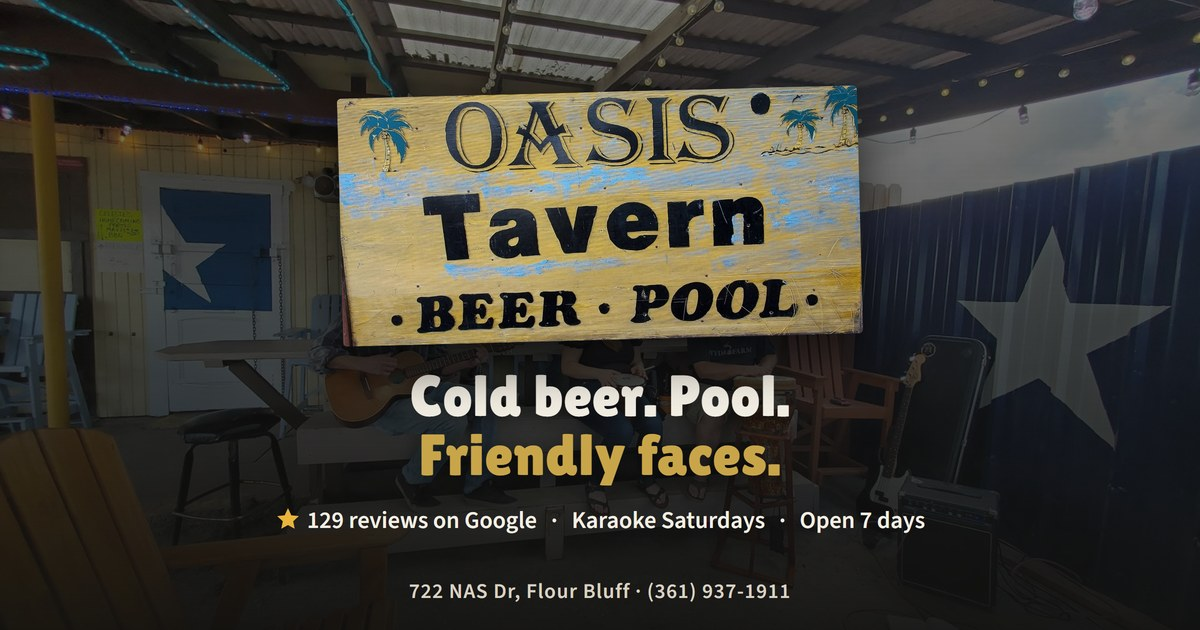
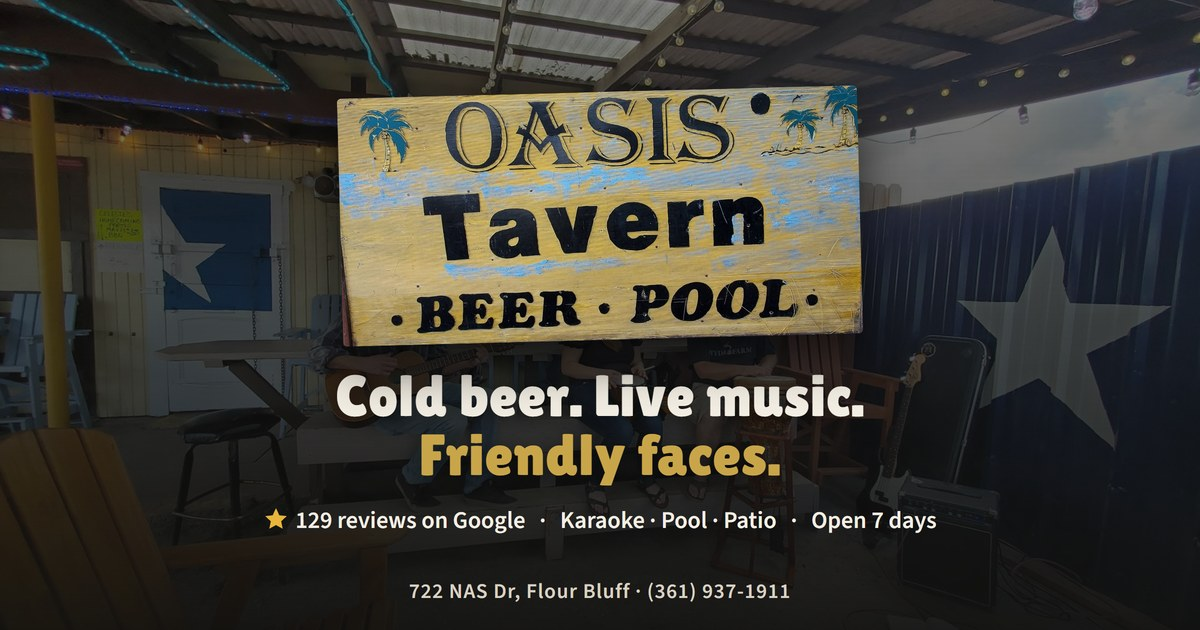
Headline + card: live music, not just karaoke

Changed region(s): [[0.2775, 0.573, 0.74, 0.6635], [0.2158, 0.8143, 0.8017, 0.8444]]

diff --git a/index.html b/index.html
@@ -3,23 +3,23 @@
 <head>
 <meta charset="utf-8">
 <meta name="viewport" content="width=device-width, initial-scale=1, viewport-fit=cover">
-<title>Oasis Tavern | Beer, Pool &amp; Karaoke in Flour Bluff — Corpus Christi, TX</title>
-<meta name="description" content="Oasis Tavern on NAS Drive in Flour Bluff. Ice cold beer, pool tables, Saturday karaoke, Wednesday open mic and a big covered patio. Cash bar, BYOB set-ups. Open 7 days. (361) 937-1911.">
+<title>Oasis Tavern | Beer, Live Music, Pool &amp; Karaoke in Flour Bluff — Corpus Christi, TX</title>
+<meta name="description" content="Oasis Tavern on NAS Drive in Flour Bluff. Ice cold beer, live music and open mic on the patio, Saturday karaoke, pool tables. Cash bar, BYOB set-ups. Open 7 days. (361) 937-1911.">
 <meta name="robots" content="noindex,nofollow">
 <link rel="canonical" href="https://jzonkel1.github.io/oasis-tavern/">
 <meta property="og:title" content="Oasis Tavern — Flour Bluff, Corpus Christi">
-<meta property="og:description" content="Ice cold beer, pool, karaoke Saturdays, open mic Wednesdays and a big patio on NAS Drive. Cash bar, BYOB set-ups. Open 7 days.">
+<meta property="og:description" content="Ice cold beer, live bands and open mic on the patio, karaoke Saturdays, pool tables. Cash bar, BYOB set-ups. Open 7 days on NAS Drive.">
 <meta property="og:site_name" content="Oasis Tavern">
 <meta property="og:type" content="website">
 <meta property="og:url" content="https://jzonkel1.github.io/oasis-tavern/">
-<meta property="og:image" content="https://jzonkel1.github.io/oasis-tavern/assets/img/og.jpg?v=4">
-<meta property="og:image:secure_url" content="https://jzonkel1.github.io/oasis-tavern/assets/img/og.jpg?v=4">
+<meta property="og:image" content="https://jzonkel1.github.io/oasis-tavern/assets/img/og.jpg?v=5">
+<meta property="og:image:secure_url" content="https://jzonkel1.github.io/oasis-tavern/assets/img/og.jpg?v=5">
 <meta property="og:image:alt" content="Oasis Tavern, 722 NAS Dr, Corpus Christi">
 <meta property="og:image:type" content="image/jpeg">
 <meta property="og:image:width" content="1200">
 <meta property="og:image:height" content="630">
 <meta name="twitter:card" content="summary_large_image">
-<meta name="twitter:image" content="https://jzonkel1.github.io/oasis-tavern/assets/img/og.jpg?v=4">
+<meta name="twitter:image" content="https://jzonkel1.github.io/oasis-tavern/assets/img/og.jpg?v=5">
 <link rel="icon" href="assets/favicon.png">
 <link rel="preload" as="image" href="assets/img/hero-m.jpg" media="(max-width:899px)">
 <link rel="preload" as="image" href="assets/img/hero-d.jpg" media="(min-width:900px)">
@@ -251,8 +251,8 @@ body.menu-open{overflow:hidden}
   <div class="wrap">
     <img class="hero__sign" src="assets/img/sign.jpg" alt="The original Oasis Tavern sign: Beer, Pool">
     <div>
-      <h1>Cold beer. Pool.<br><em>Friendly faces.</em></h1>
-      <p>Flour Bluff's neighborhood bar on NAS Drive. Karaoke Saturdays, open mic Wednesdays, a big covered patio, and a bartender who remembers your name.</p>
+      <h1>Cold beer. Live music.<br><em>Friendly faces.</em></h1>
+      <p>Flour Bluff's neighborhood bar on NAS Drive. Local bands and open mic on the patio, karaoke Saturdays, pool tables inside, and a bartender who remembers your name.</p>
       <div class="hero__cta">
         <a class="btn btn-acc call-m" href="tel:+13619371911"><svg class="ic"><use href="#i-phone"/></svg>Call the Bar</a>
         <a class="btn btn-ghost" href="#week">See What's On</a>

diff --git a/research/og.html b/research/og.html
@@ -18,8 +18,8 @@ h1 em{font-style:normal;color:#c9a54a}
 <div class="bg"></div><div class="veil"></div>
 <div class="c">
   <img class="sign" src="../assets/img/sign.jpg" alt="">
-  <h1>Cold beer. Pool.<br><em>Friendly faces.</em></h1>
-  <div class="row"><span><svg class="star" viewBox="0 0 24 24" fill="#e9b53a"><polygon points="12,2 15.1,8.6 22,9.3 16.8,14.1 18.2,21 12,17.6 5.8,21 7.2,14.1 2,9.3 8.9,8.6"/></svg>129 reviews on Google</span><span>·</span><span>Karaoke Saturdays</span><span>·</span><span>Open 7 days</span></div>
+  <h1>Cold beer. Live music.<br><em>Friendly faces.</em></h1>
+  <div class="row"><span><svg class="star" viewBox="0 0 24 24" fill="#e9b53a"><polygon points="12,2 15.1,8.6 22,9.3 16.8,14.1 18.2,21 12,17.6 5.8,21 7.2,14.1 2,9.3 8.9,8.6"/></svg>129 reviews on Google</span><span>·</span><span>Karaoke · Pool · Patio</span><span>·</span><span>Open 7 days</span></div>
 </div>
 <div class="foot">722 NAS Dr, Flour Bluff · (361) 937-1911</div>
 </body></html>
